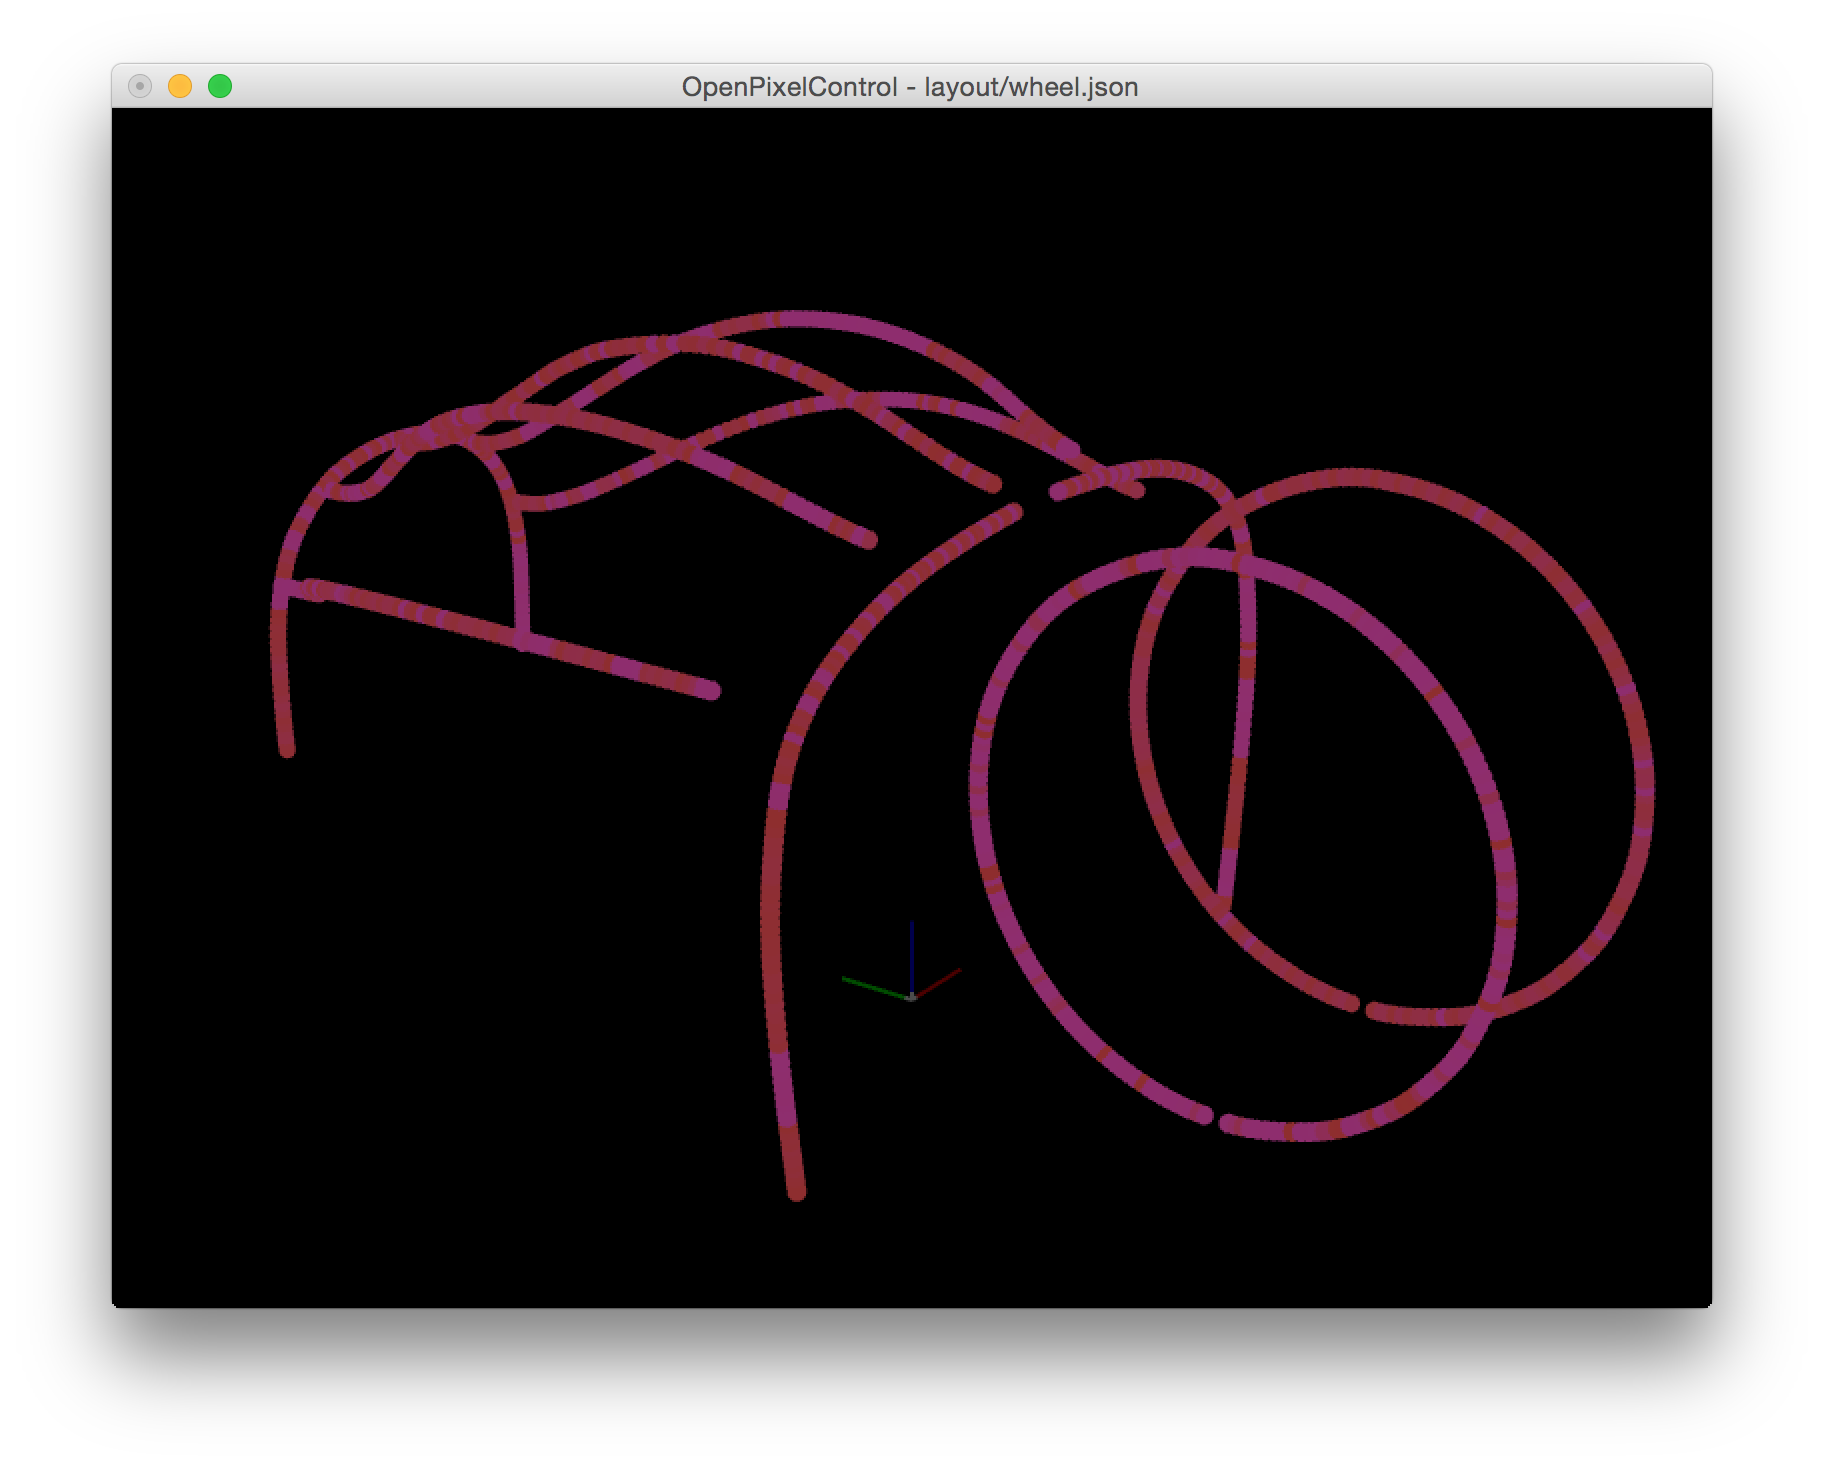
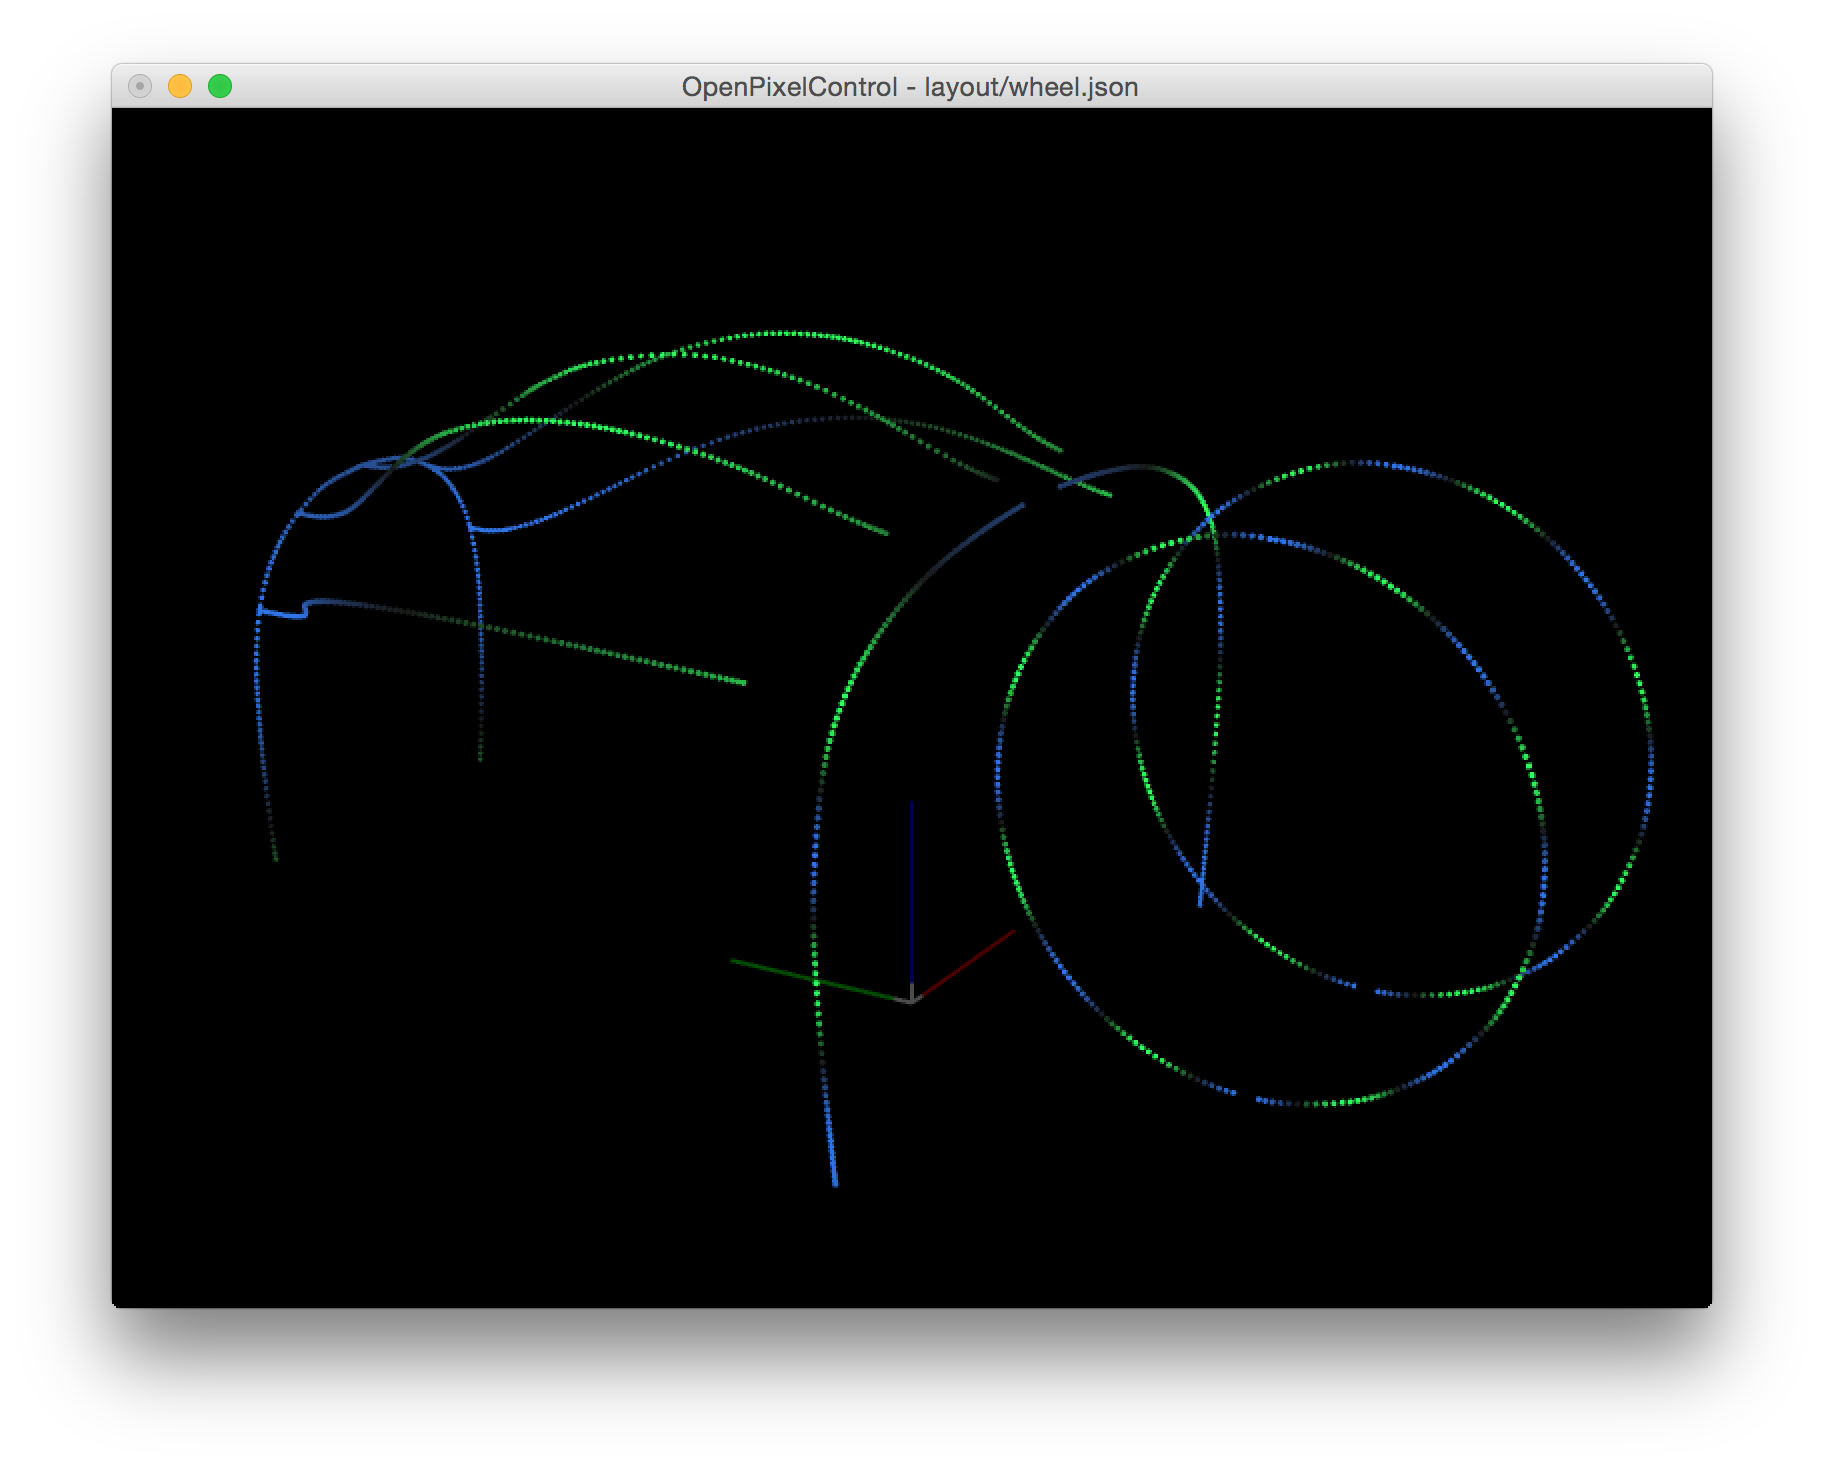
Documentation updates

Changed region(s): [[0.125, 0.2146, 0.9062, 0.8277], [0.4688, 0.6744, 0.5, 0.705]]

diff --git a/client/python/effects/bguest.py b/client/python/effects/bguest.py
@@ -28,11 +28,11 @@ def wave_z(pixel, wave_width, height, bg_color, color):
 
     return interpolate_color(value, bg_color, color)
 
-def linear_down_effect(tower, state):
+def linear_down_effect(system, state):
     bg_color = (0, 0, 0)
     period = 3
     total_height = 30.0
     height = total_height - state.time % period * total_height/period
-    for pixel in tower:
-        tower.set_pixel_rgb(pixel, wave_z(pixel, 3.5, height, bg_color, (1.0, 1.0, 0)))
+    for pixel in system:
+        system.set_pixel_rgb(pixel, wave_z(pixel, 3.5, height, bg_color, (1.0, 1.0, 0)))
 

diff --git a/README.md b/README.md
@@ -44,13 +44,10 @@ Lighting control is run by LEDscape running on Beaglebone Blacks receiving OpenP
 
  section | lights 
 ---------|--------
-base | 24 ColorBurst fixtures, about 12' off the ground, pointing down at the vinyl base cover, which is painted with techniques that react well to color-changing light.
-middle | 24 roughly 6 meter WS2812 LED strips crisscrossing along with the steel beams of the tower. Each strip is split into a 4.77m lower section and a 1.33m upper section, just as the steel structural beams are.
-railing | 12 CK Fresco coves with two fixtures each, just below the handrail, illuminating the woodcut panels of the tower top railing.
-roofline | 6 2.33m WS2812 strips ringing the roof of the tower top
-spotlight | A 300W LED spotlight on a rotating bearing above the tower roof
-spire | 16 1m WS2812 strips making an 8' antenna atop the tower roof.
-
+wheel | Four 12' lengths of WS2812 LEDs, two on each side, for a total of 452 pixels
+ceiling | Five 12' lengths of WS2812 LEDs across the spline ribs of the base structure
+front_door | Two 8' lengths of WS2812 LEDs around the main entrance archway
+back_door | Two 12' lengths of WS2812 LEDs around the archways of the "back" doors, next to the wheel
 
 How to contribute 
 ---------------------------
@@ -146,6 +143,8 @@ property | purpose
 Effect Parameters and OSC
 -------------------------
 
+The lighting control client can expose an OSC server on port 7000 to control lighting effect parameters and send feedback about the wheel and musical systems.
+
 In order to use the OSC features, you'll need to install the pyOSC module.
 ```
 pip install pyosc --pre
@@ -156,15 +155,17 @@ osc message | effect
 /wheel/speed f | Update the wheel speed with float f (see section on state object.)
 /note/trigger f | Let the lighting system know about a note event. Optional float param will be stored as event parameter (see state.events)
 /palette/select i | Change the global palette to one of three derived from NASA imagery (i = 0, 1, or 2)
-/effect/<effect name>/opacity f | Change the opacity of the named effect from 1 (all the way on) to 0 (off.)
-/effect/<effect name>/param/<param name> f | Change the value of named effect parameter to f
+/effect/[effect name]/opacity f | Change the opacity of the named effect from 1 (all the way on) to 0 (off.)
+/effect/[effect name]/param/[param name] f | Change the value of named effect parameter to f
 
-Effects can define additional named arguments after the (tower, state) arguments. Any named arguments will be slurped up into the OSC server and exposed as endpoints for timeline or interactive control. 
+Effects can define additional named arguments after the (system, state) arguments. Any named arguments will be slurped up into the OSC server and exposed as endpoints for timeline or interactive control. 
 
 ```python
-def cortex(tower, state, sVert=0.0, sHorizon=0.0, spiralAltPeriod=4.0):
+def cortex(system, state, sVert=0.0, sHorizon=0.0, spiralAltPeriod=4.0):
   ...
 ```
+
+Assuming that effect definition is in `morphogen.py`, we could manipulate the sHorizon parameter by sending OSC messages of the form `/effect/morphogen-cortex/param/sHorizon 0.33`
 
 
 Running the Client Using Pypy and Python Virtual Environments
